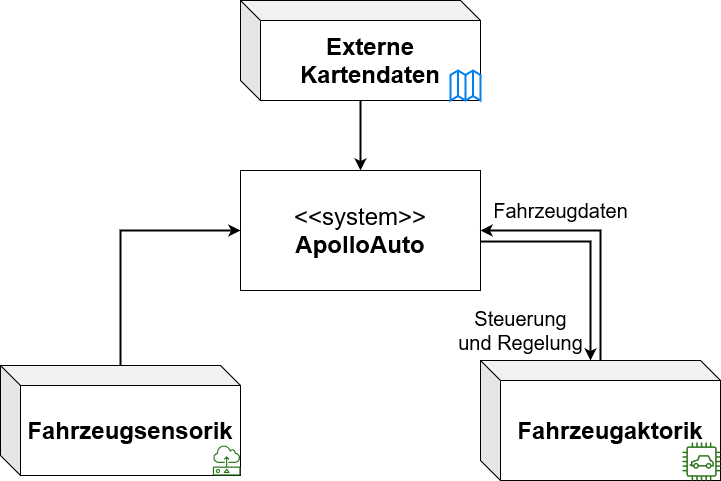
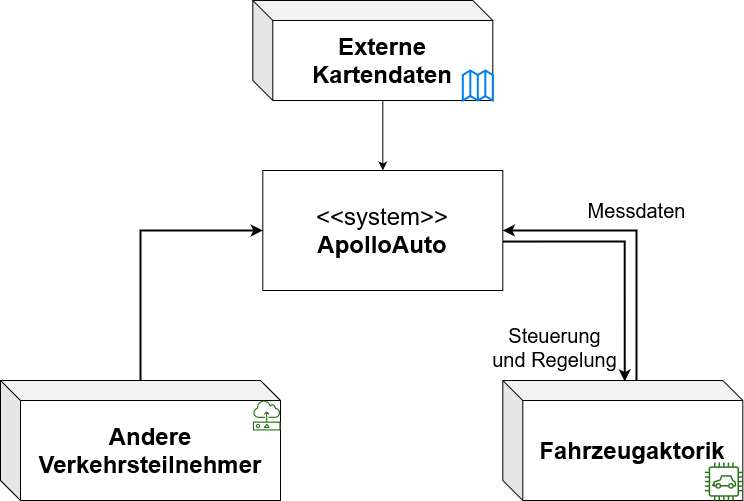
Kontextabgrenzung

diff --git a/build/html5/arc42-template.html b/build/html5/arc42-template.html
@@ -972,7 +972,7 @@ Es ist sinnvoll, zu unterscheiden, welche Anforderungen an die CPU für die Inst
 <div class="sect2">
 <h3 id="_fachlicher_kontext">3.1. Fachlicher Kontext</h3>
 <div class="paragraph">
-<p>Interaktion der Software mit den anderen Verkehrsteilnehmern (Sensordaten), Kartendaten (Fremdsystem) und Fahrzeugaktorik (Sensordaten).</p>
+<p>Interaktion der Software mit den anderen Verkehrsteilnehmern (Sensordaten), den Kartendaten (Fremdsystem) und der Fahrzeugaktorik (Sensordaten).</p>
 </div>
 <div class="imageblock">
 <div class="content">
@@ -985,23 +985,34 @@ Es ist sinnvoll, zu unterscheiden, welche Anforderungen an die CPU für die Inst
 </div>
 <div class="paragraph">
 <div class="title">Fahrzeugsensorik</div>
-<p>Messdaten jeglicher Sensorik werden von ApolloAuto verwertet. Dazu gehören beispielsweise das GPS und LiDAR-Sensoren.
-Diese ermöglichen die Auswertung der vorhandenen Verkehrsituation durch ApolloAuto.</p>
+<p>Die Sensorik, welche das Umfeld des Fahrzeugs aufnimmt, wird von ApolloAuto verwertet. Dazu gehören beispielsweise das GPS und LiDAR-Sensoren.</p>
 </div>
 <div class="paragraph">
 <div class="title">Fahrzeugaktorik</div>
-<p>Dem System ist es möglich, Vorgänge wie die Lenkung, Beschleunigung und Bremsvorgänge zu steuern. Gleichzeitig erhält es vom Fahrzeug Zustandsinformationen dieser Aktoren.</p>
+<p>Dem System ist es möglich, Vorgänge wie die Lenkung, Beschleunigung und Bremsvorgänge zu steuern. Gleichzeitig erhält es vom Fahrzeug Zustandsinformationen.</p>
 </div>
 </div>
 <div class="sect2">
 <h3 id="_technischer_kontext">3.2. Technischer Kontext</h3>
 <div class="paragraph">
-<p>Externe Schnittstelle der Software HD-Map Kartenbibliothek,
-Lokalisierung,
-einen CAN-Bus, welcher die Fahrzeugaktorik steuert,
-einem Monitor, welcher alle Systeme überwacht
-einen Guardian, welcher einschreitet, wenn der Monitor einen Fehler feststellt
-ein Human Machine Interface, aus welchem Statusanzeigen eingesehen und in Echtzeit Änderungen vorgenommen werden können</p>
+<p>Technische interaktion des Systems mit externen Beteiligten.</p>
+</div>
+<div class="imageblock">
+<div class="content">
+<img src="./images/TechnischerKontext.png" alt="TechnischerKontext">
+</div>
+</div>
+<div class="paragraph">
+<div class="title">Sensorschnittstelle</div>
+<p>Das System verwertet die empfangenen Daten der Fahrzeugsensorik, wie GPS, LiDAR, Radar, Kamerasysteme und eine inertiale Messeinheit. Damit empfängt es sowohl die Informationen zum Fahrzeug, als auch zur umgebenden Verkehrsituation.</p>
+</div>
+<div class="paragraph">
+<div class="title">Monitor</div>
+<p>Der Monitor ermöglicht die externe Überwachung von Fahrzeugzuständen. Bei bestimmten, festgelegten Zuständen wird in das System eingegriffen. Außerdem ermöglicht es diese Zustände an die Dreamview HMI weiterleiten.</p>
+</div>
+<div class="paragraph">
+<div class="title">Dreamview HMI</div>
+<p>Im Dreamview Human Machine Interface können Ausgabewerte des Fahrzeugs visualisiert werden. Dieses bildet somit die Schnittstelle zum Menschen, über welche eine Überwachung des Fahrzeugzustands möglich ist.</p>
 </div>
 <div style="page-break-after: always;"></div>
 </div>
